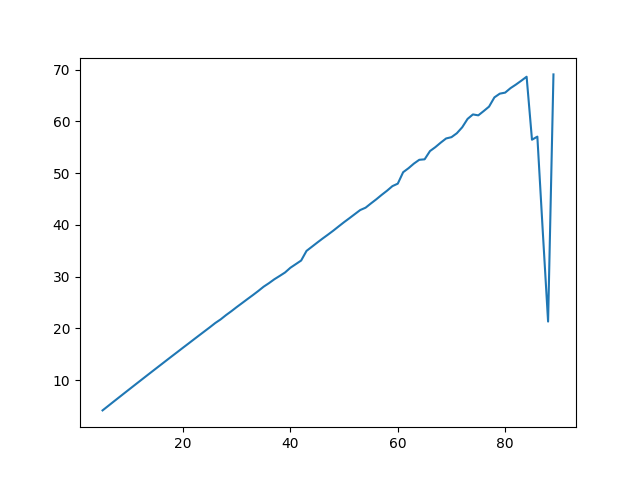
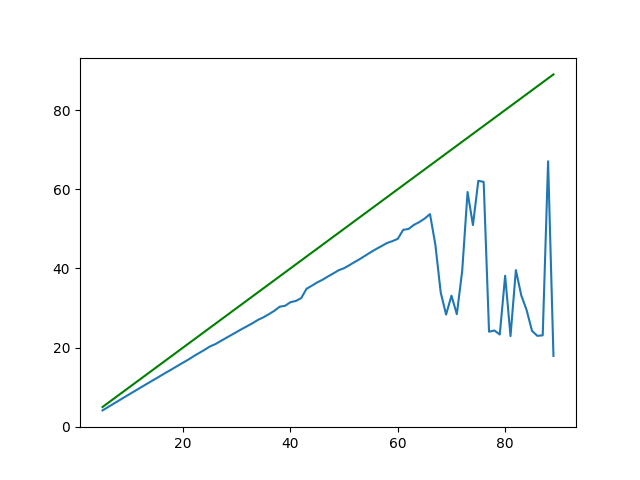
Add Nice Plot for Camera tests

diff --git a/cam_test.py b/cam_test.py
@@ -19,6 +19,6 @@ for fps in range(start, end):
         camera.capture(output, 'rgb', use_video_port=True)
         img_arr = output[:48, :48, :]
     true_fps.append(loop/(time.time()-save_time))
-
+plt.plot(range(start, end), range(start, end), color='green')
 plt.plot(range(start, end), true_fps)
 plt.savefig('testcam.png')

diff --git a/cam_conti_test.py b/cam_conti_test.py
@@ -27,6 +27,6 @@ for fps in range(start, end):
         if count == loop:
             break
     true_fps.append(loop/(time.time()-save_time))
-
+plt.plot(range(start, end), range(start, end), color='green')
 plt.plot(range(start, end), true_fps)
 plt.savefig('testcamcontinu.png')
